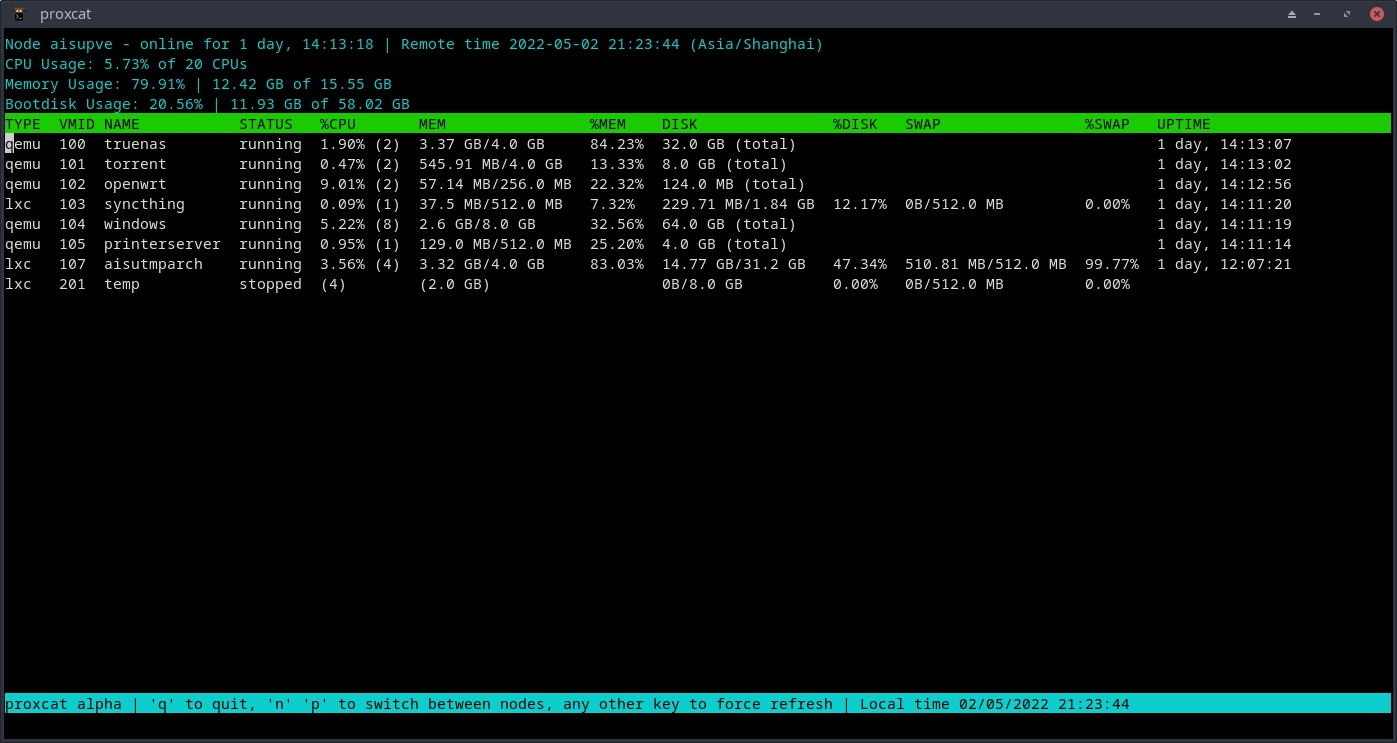
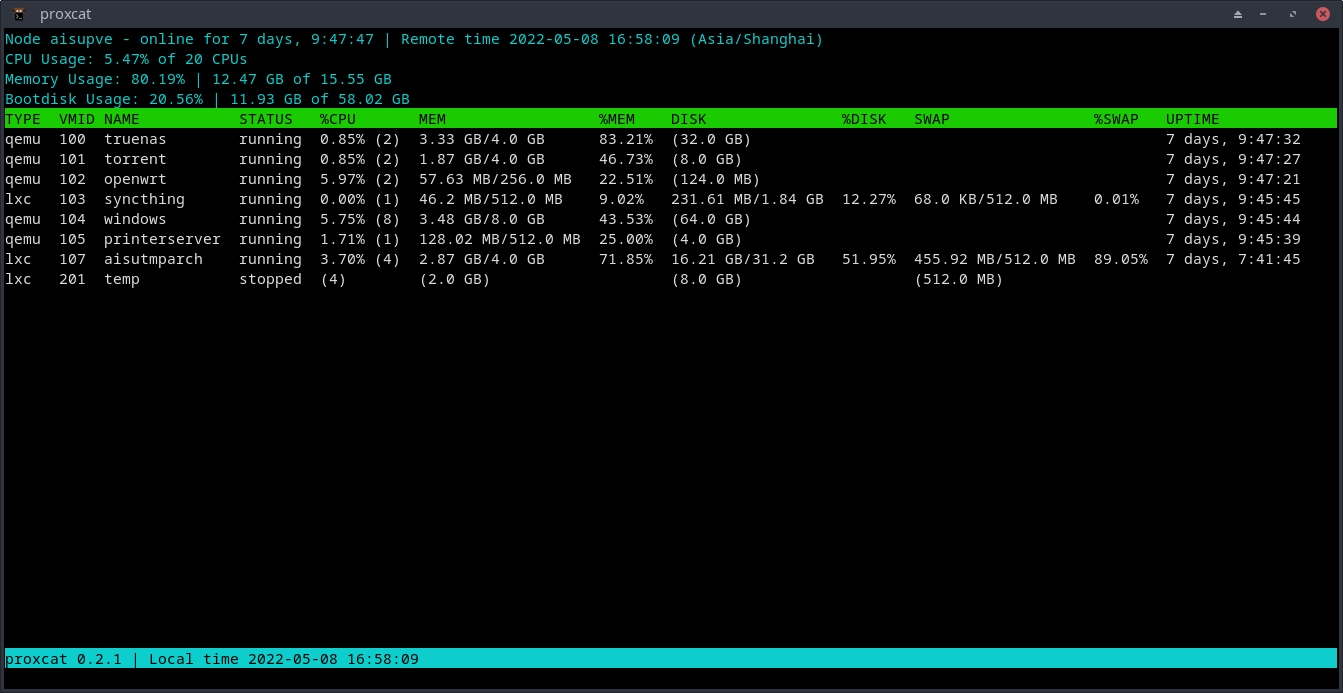
release v0.2.1

Changed region(s): [[0.0, 0.0, 1.0, 0.4242], [0.0, 0.9091, 1.0, 0.9697], [0.9769, 0.0, 1.0, 0.0303]]

diff --git a/src/__init__.py b/src/__init__.py
@@ -1,1 +1,1 @@
-__version__ = 0.2
+__version__ = "0.2.1"

diff --git a/README.md b/README.md
@@ -4,7 +4,7 @@ A htop-like status monitor for Proxmox VE servers, powered by python curses, wit
 ## Screenshot
 ![connected to my own PVE server](screenshot.jpg)
 ## Installation
-`pip install proxmoxer proxcat`
+`pip install requests proxmoxer proxcat`
 
 Or, clone repository and run `pip install .`. 
 
@@ -36,6 +36,12 @@ Or, clone repository and run `pip install .`.
 
 ## Changelog
 see [CHANGELOG.md](CHANGELOG.md).
+
+## Todo
+- [ ] Switch entirely to `pyproject.toml`
+- [ ] More functionality for curses UI (custom sorting, ...)
+- [ ] Invoke VM/CT jobs within app
+- [ ] **Optional headless/daemon mode with WebUI**
 
 ## License
 [MIT](LICENSE)

diff --git a/CHANGELOG.md b/CHANGELOG.md
@@ -1,13 +1,12 @@
 # Changelog
-
-v0.2 (2022/05/07) 
-
-- Add flag to disable LXC-only info
+v0.2.1 (2022/05/08)
+- Code cleanup
+- minor UI tweak
   
+v0.2 (2022/05/07) 
+- Add flag to disable LXC-only info
 - Fix LXC-only info menubar item still showing when no CTs are present
-
 - Minor bug fixes and improvements
   
 v0.1 (2022/05/02)
-
 - Initial release
